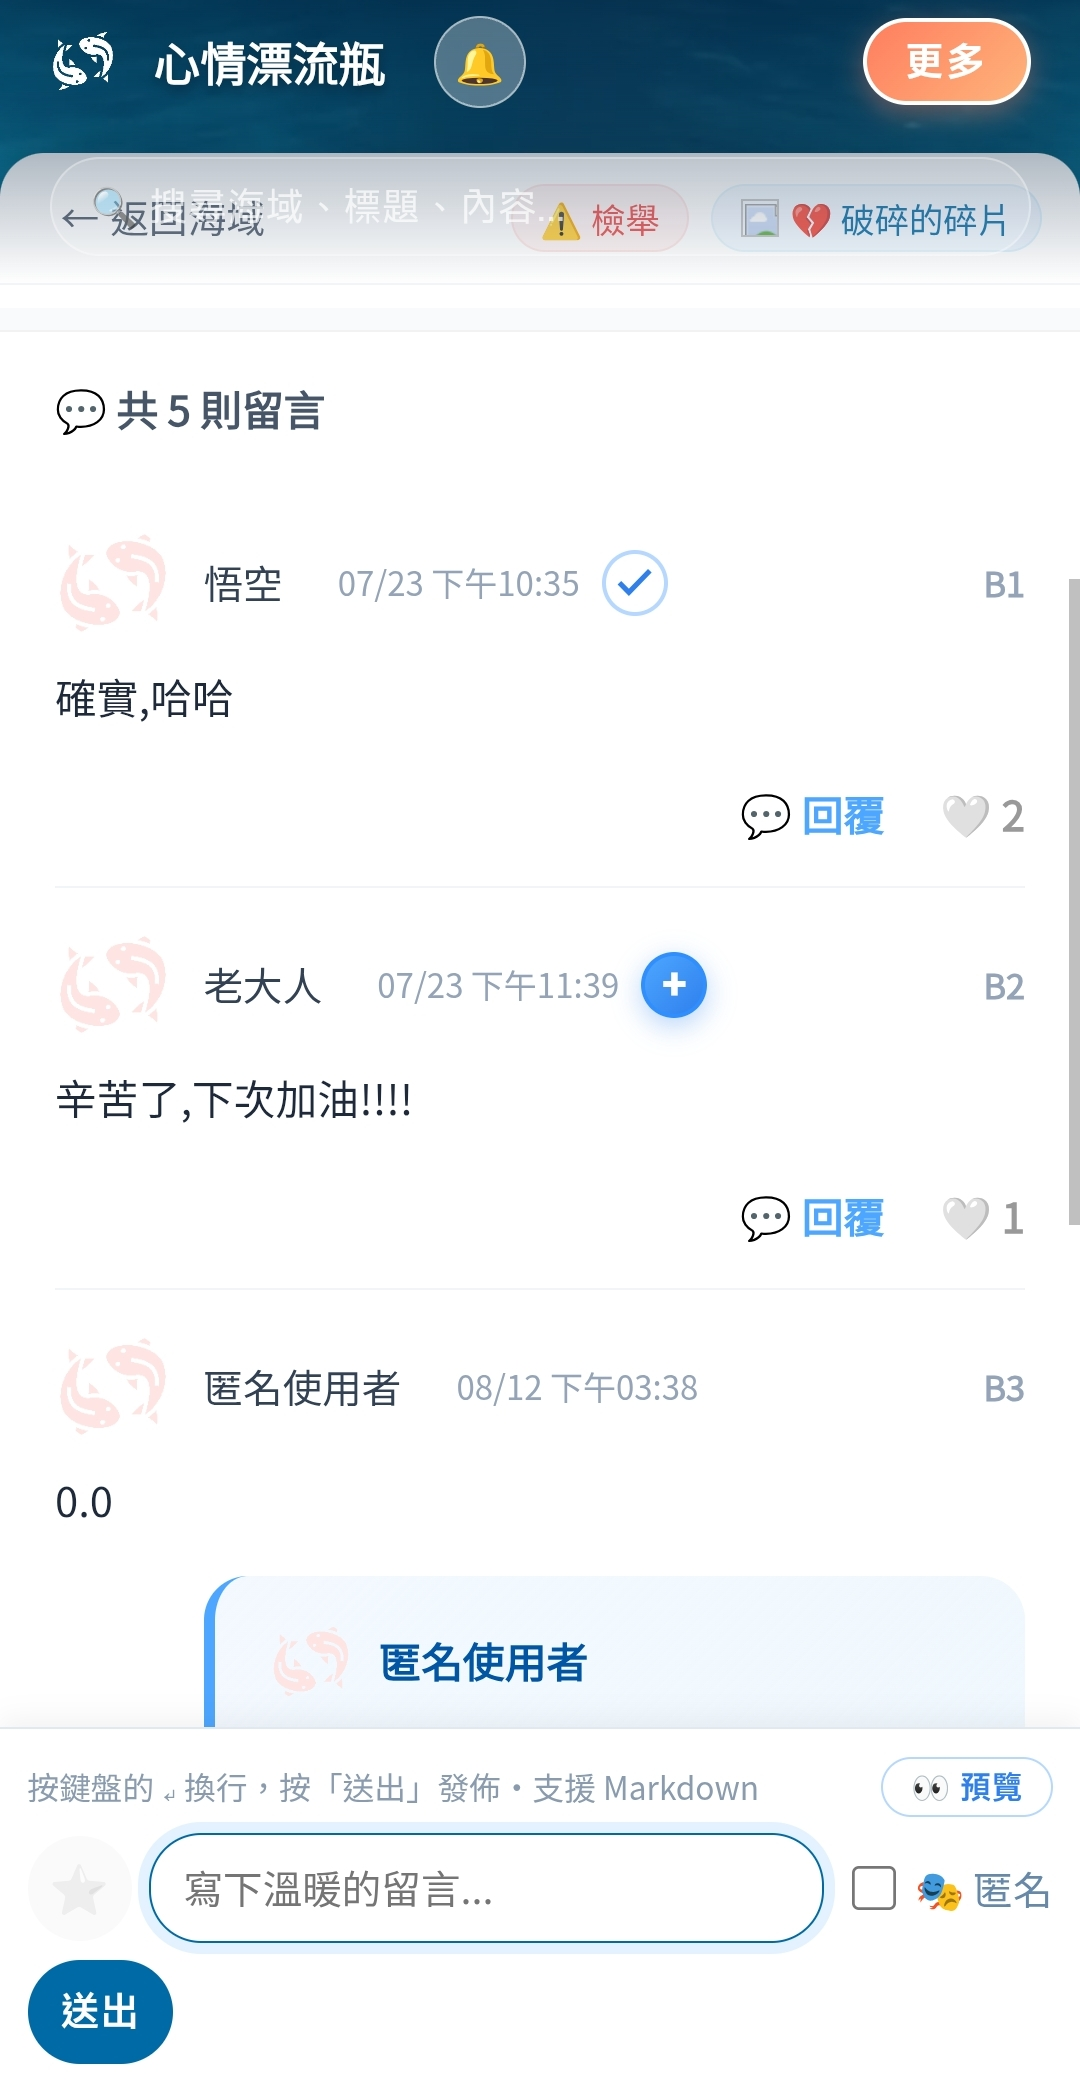
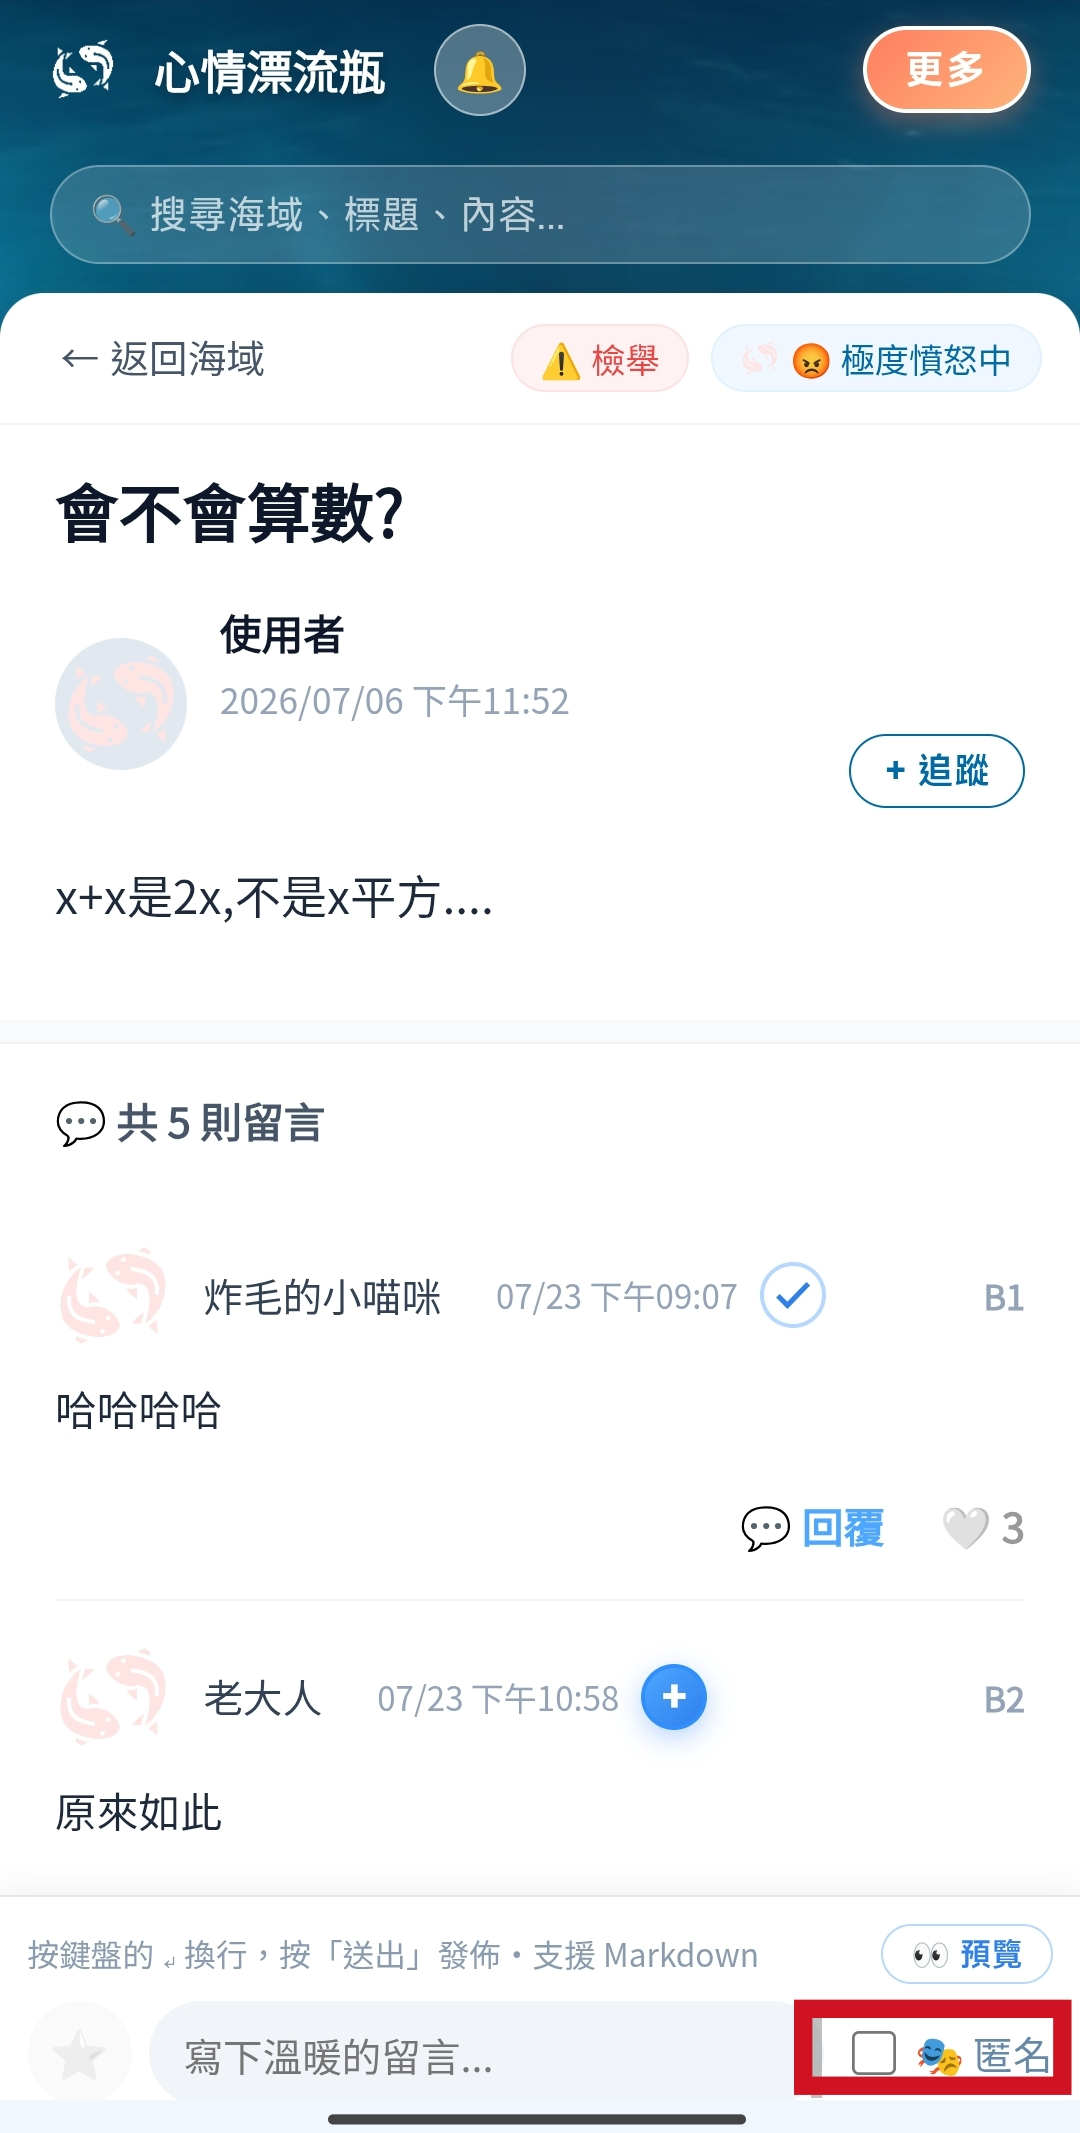
手機版手冊更新

diff --git a/frontend/tutorial.html b/frontend/tutorial.html
@@ -602,7 +602,10 @@
           title: "探索海底大廳",
           slides: [
             { img: "./images/lobby.webp", mobileImg: "./images/m_lobby.webp", subtitle: "海底大廳", desc: "登入後會來到最熱鬧的海底大廳！畫面上方有搜尋列與遊樂場入口，左右兩側藏有熱門貼文與海神殿規的捷徑，中間則是各個海域的漂流瓶。" },
-            { img: "./images/notification.webp", mobileImg: "./images/m_notification.webp", subtitle: "通知與帳號", desc: "點擊鈴鐺可直接打開對應的漂流瓶。這裡會收到留言、按讚、審核結果與客服回覆等通知，且同一人重複按讚收藏不會洗版喔！" }
+            { img: "./images/daily_question.webp", mobileImg: "./images/m_daily_question.webp", subtitle: "今日一題", desc: "大廳上方每天都會更新一個趣味問題！你可以點擊選項參與回答，投完票後就能立刻看到大家選擇的比例分佈喔！如果不想看，也可以點擊右上角收起。" },
+            { img: "./images/my_ocean_following.webp", mobileImg: "./images/m_my_ocean_following.webp", subtitle: "我的海域 - 追蹤動態", desc: "在「我的海域」面板中，切換到「追蹤的新瓶」頁籤，就能第一時間看到你追蹤的創作者發布的最新貼文。不需要時同樣可以點擊右上角收起面板。" },
+            { img: "./images/my_ocean_collections.webp", mobileImg: "./images/m_my_ocean_collections.webp", subtitle: "我的海域 - 快速收藏", desc: "切換到「我的收藏」頁籤，不用進入個人空間，在首頁就能快速瀏覽並點開你珍藏的漂流瓶貼文，非常方便！" },
+            { img: "./images/notification.webp", mobileImg: "./images/m_notification.webp", subtitle: "通知與帳號", desc: "點擊右上角鈴鐺可直接打開對應的漂流瓶。這裡會收到留言、按讚、審核結果與客服回覆等通知，且同一人重複按讚收藏不會洗版喔！" }
           ]
         },
         {
@@ -726,6 +729,9 @@
           title: "Explore Ocean Lobby",
           slides: [
             { img: "./images/lobby.webp", mobileImg: "./images/m_lobby.webp", subtitle: "Ocean Lobby", desc: "Welcome to the bustling Ocean Lobby! It features a search bar, playground entrance, hot posts, rules, and drifting bottles in the center." },
+            { img: "./images/daily_question.webp", mobileImg: "./images/m_daily_question.webp", subtitle: "Daily Question", desc: "A fun question is updated daily at the top of the lobby! Participate by selecting an option, and you can instantly see the voting ratio. You can collapse it if you prefer." },
+            { img: "./images/my_ocean_following.webp", mobileImg: "./images/m_my_ocean_following.webp", subtitle: "My Ocean - Following", desc: "In the 'My Ocean' panel, switch to the 'Following' tab to instantly see the latest posts from creators you follow. You can also collapse this panel anytime." },
+            { img: "./images/my_ocean_collections.webp", mobileImg: "./images/m_my_ocean_collections.webp", subtitle: "My Ocean - Collections", desc: "Switch to the 'Collections' tab to quickly browse and open your saved drift bottles right from the homepage, without needing to enter your personal space!" },
             { img: "./images/notification.webp", mobileImg: "./images/m_notification.webp", subtitle: "Notifications", desc: "Click the bell to open posts directly. Receive updates on comments, likes, reviews, and CS replies without duplicate spam!" }
           ]
         },
